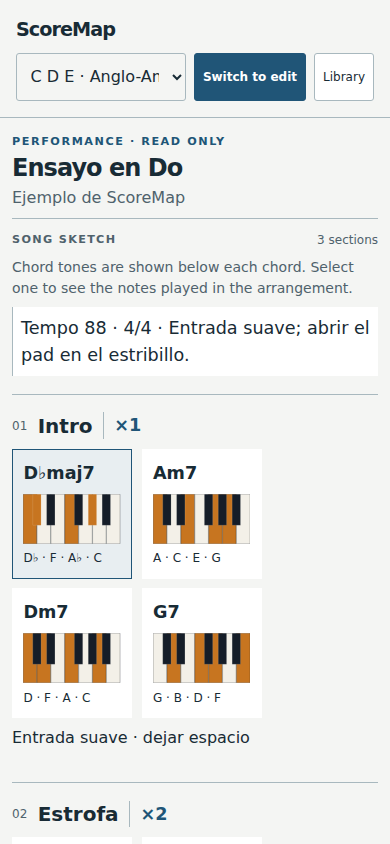
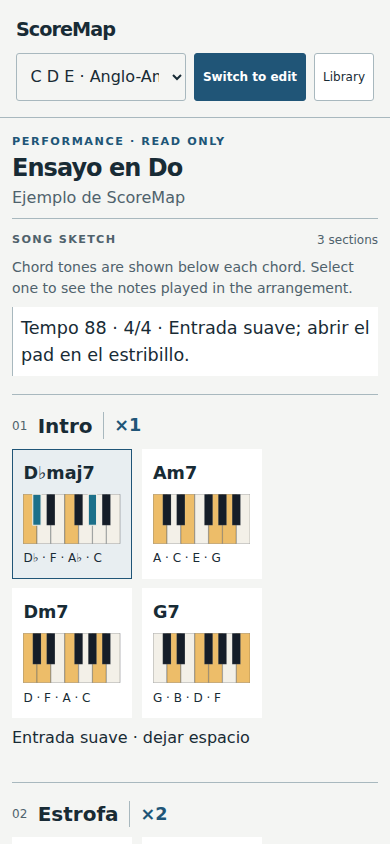
fix: distinguish highlighted black and white keys (#39)

diff --git a/tests/e2e/performance.spec.ts b/tests/e2e/performance.spec.ts
@@ -86,6 +86,26 @@ test("SB-SECTION-REORDER SB-ANNOTATIONS SB-PERFORMANCE SB-PERFORMANCE-REJECT SB-
           .sort((a, b) => a - b),
       ),
   ).toEqual([0, 4, 7]);
+  const flatDiagram = page.getByRole("button", {
+    name: "Verse chord 1: D♭m",
+    exact: true,
+  });
+  const fill = (selector: string) =>
+    flatDiagram
+      .locator(selector)
+      .first()
+      .evaluate((key) => getComputedStyle(key).fill);
+  expect(await flatDiagram.locator(".black-key.highlighted").count()).toBe(2);
+  expect(await flatDiagram.locator(".white-key.highlighted").count()).toBe(1);
+  expect(await fill(".black-key.highlighted")).not.toBe(
+    await fill(".black-key:not(.highlighted)"),
+  );
+  expect(await fill(".white-key.highlighted")).not.toBe(
+    await fill(".white-key:not(.highlighted)"),
+  );
+  expect(await fill(".black-key.highlighted")).not.toBe(
+    await fill(".white-key.highlighted"),
+  );
   expect(await readLibrary(page)).toEqual(next);
   const axe = await new AxeBuilder({ page }).analyze();
   expect(axe.violations).toEqual([]);

diff --git a/src/app/styles.css b/src/app/styles.css
@@ -10,7 +10,8 @@
   --lh-key-white: #f3f0e8;
   --lh-key-black: #151d28;
   --lh-key-ink: #121822;
-  --lh-key-mark: #c77520;
+  --lh-key-mark: #edbd69;
+  --lh-key-black-mark: #1d708a;
   --lh-key-mark-text: #151d28;
   --lh-on-action: #ffffff;
   --lh-danger-text: #9e2424;
@@ -549,8 +550,13 @@ summary {
   stroke: var(--lh-key-white);
   stroke-width: 1px;
 }
-.highlighted {
+.white-key.highlighted {
   fill: var(--lh-key-mark);
+}
+.black-key.highlighted {
+  fill: var(--lh-key-black-mark);
+  stroke: var(--lh-key-white);
+  stroke-width: 8px;
 }
 .white-label {
   fill: var(--lh-key-ink);
@@ -981,9 +987,14 @@ dialog h2 {
   opacity: 1;
   cursor: default;
 }
-.performed-key[data-performed="true"] {
+.performed-key.played-white[data-performed="true"] {
   background: var(--lh-key-mark);
   color: var(--lh-key-mark-text);
+}
+.performed-key.played-black[data-performed="true"] {
+  background: var(--lh-key-black-mark);
+  color: var(--lh-key-white);
+  border: 2px solid var(--lh-key-white);
 }
 .performed-key:focus-visible {
   z-index: 3;
